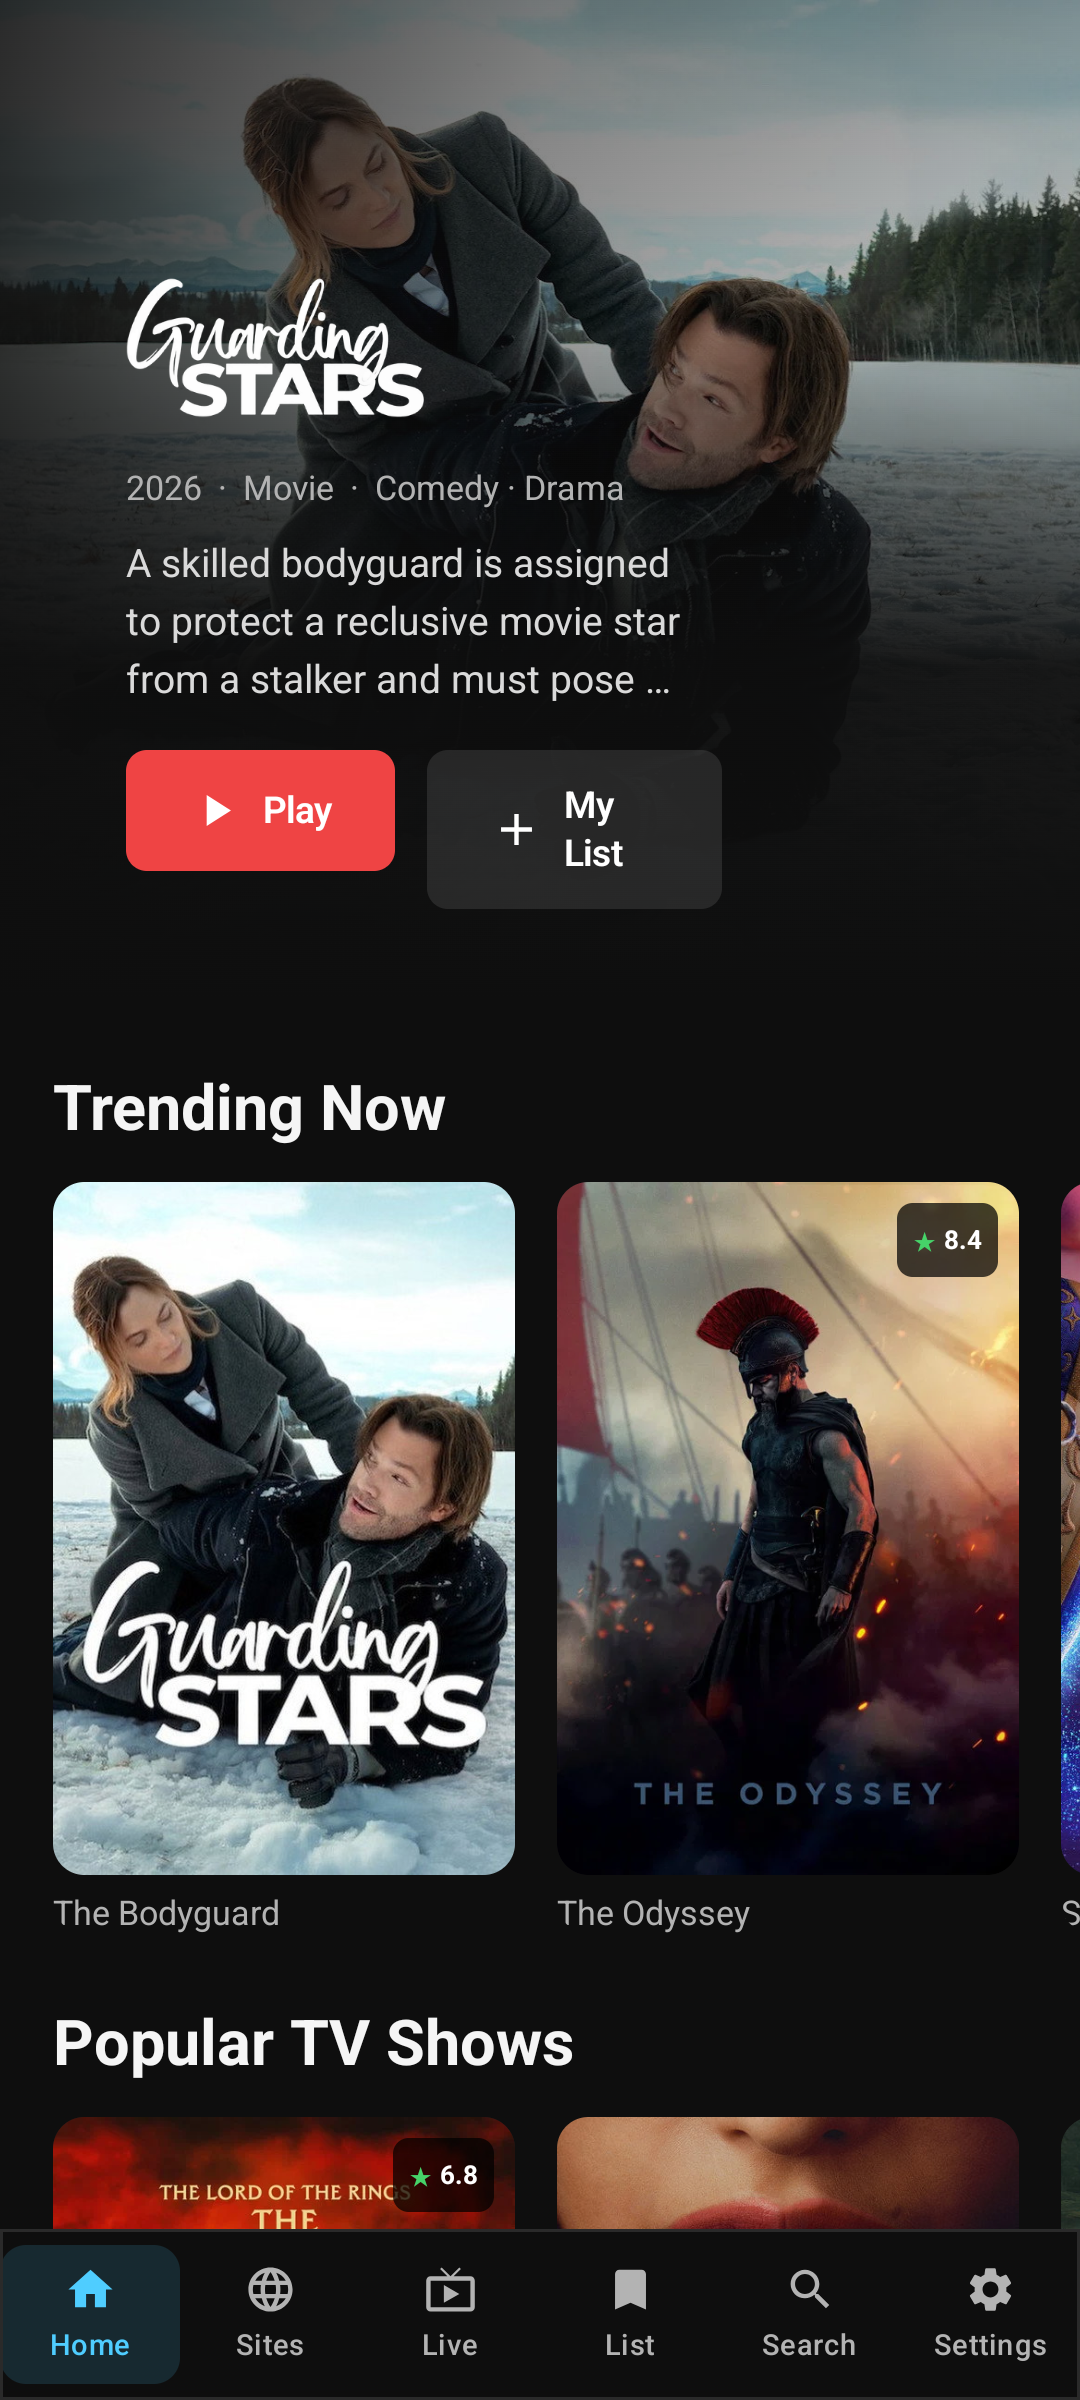
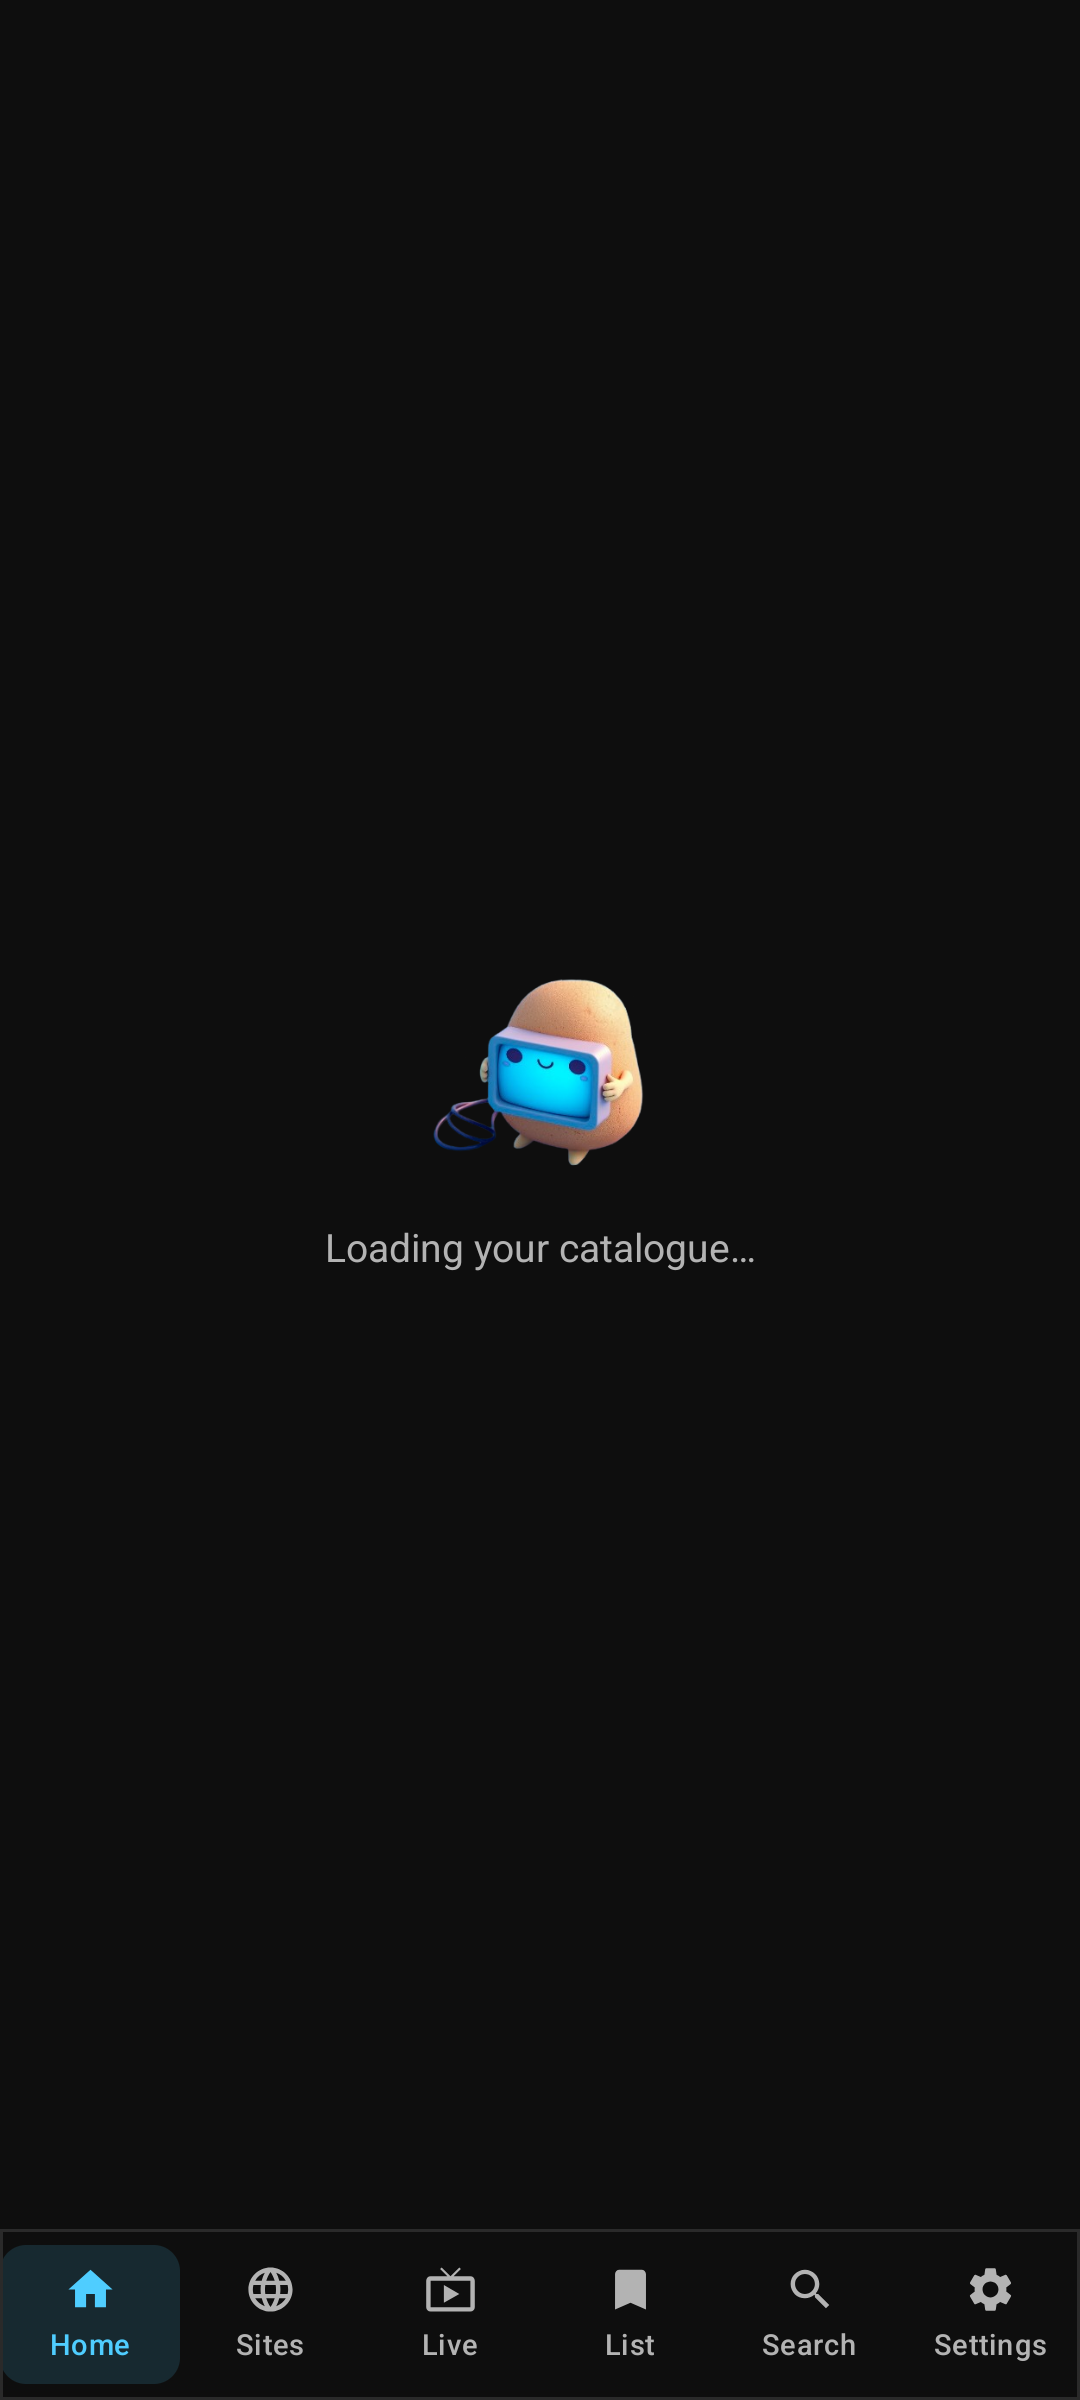
Hide live buffering, stop stream auto-hijack, support fullscreen site video

diff --git a/app/src/main/java/app/potatotv/ui/browser/BrowserScreen.kt b/app/src/main/java/app/potatotv/ui/browser/BrowserScreen.kt
@@ -1,7 +1,11 @@
 package app.potatotv.ui.browser
 
 import android.annotation.SuppressLint
+import android.app.Activity
+import android.content.pm.ActivityInfo
 import android.os.SystemClock
+import android.view.View
+import android.view.ViewGroup
 import android.webkit.CookieManager
 import android.webkit.WebChromeClient
 import android.webkit.WebResourceError
@@ -10,6 +14,7 @@ import android.webkit.WebResourceResponse
 import android.webkit.WebSettings
 import android.webkit.WebView
 import android.webkit.WebViewClient
+import android.widget.FrameLayout
 import android.widget.Toast
 import androidx.activity.compose.BackHandler
 import androidx.compose.foundation.background
@@ -133,6 +138,46 @@ fun BrowserScreen(
 
     val railFocus = remember { FocusRequester() }
     val webView = remember { WebView(context) }
+    val activity = context as? Activity
+
+    // Fullscreen video played inside the site (YouTube-style) needs a custom
+    // view plus permission to rotate; the site's own player then works normally.
+    var fullscreenView by remember { mutableStateOf<View?>(null) }
+    var fullscreenCallback by remember { mutableStateOf<WebChromeClient.CustomViewCallback?>(null) }
+    var previousOrientation by remember {
+        mutableStateOf(activity?.requestedOrientation ?: ActivityInfo.SCREEN_ORIENTATION_UNSPECIFIED)
+    }
+
+    fun showFullscreen(view: View, callback: WebChromeClient.CustomViewCallback?) {
+        if (fullscreenView != null) return
+        previousOrientation = activity?.requestedOrientation
+            ?: ActivityInfo.SCREEN_ORIENTATION_UNSPECIFIED
+        fullscreenView = view
+        fullscreenCallback = callback
+        activity?.requestedOrientation = ActivityInfo.SCREEN_ORIENTATION_SENSOR
+        val decor = activity?.window?.decorView as? FrameLayout
+        decor?.addView(
+            view,
+            FrameLayout.LayoutParams(
+                FrameLayout.LayoutParams.MATCH_PARENT,
+                FrameLayout.LayoutParams.MATCH_PARENT
+            )
+        )
+    }
+
+    fun hideFullscreen() {
+        fullscreenView?.let { view ->
+            (view.parent as? ViewGroup)?.removeView(view)
+        }
+        fullscreenView = null
+        fullscreenCallback?.onCustomViewHidden()
+        fullscreenCallback = null
+        activity?.requestedOrientation = previousOrientation
+    }
+
+    DisposableEffect(Unit) {
+        onDispose { hideFullscreen() }
+    }
     val sniffer = remember {
         context.assets.open("sniffer.js").bufferedReader().use { it.readText() }
     }
@@ -286,6 +331,18 @@ fun BrowserScreen(
                 BrowserSession.setPage(title.orEmpty(), view?.url.orEmpty())
             }
 
+            override fun onShowCustomView(view: View?, callback: WebChromeClient.CustomViewCallback?) {
+                if (view == null) {
+                    callback?.onCustomViewHidden()
+                    return
+                }
+                showFullscreen(view, callback)
+            }
+
+            override fun onHideCustomView() {
+                hideFullscreen()
+            }
+
             override fun onCreateWindow(
                 view: WebView?,
                 isDialog: Boolean,
@@ -356,16 +413,9 @@ fun BrowserScreen(
             BrowserSession.events.collect { event ->
                 when (event) {
                     is BrowserEvent.Stream -> {
+                        // Only surface the stream. The site keeps playing its own
+                        // video; the user can open the native player explicitly.
                         detected = event.stream
-                        val auto = latestSettings.value.autoPlayStreams
-                        val autoKind = event.stream.kind == "hls" || event.stream.kind == "dash"
-                        val now = SystemClock.elapsedRealtime()
-                        val debounce = lastLaunchUrl == event.stream.url && now - lastLaunchAt < 25_000
-                        if (auto && autoKind && !debounce) {
-                            lastLaunchUrl = event.stream.url
-                            lastLaunchAt = now
-                            openPlayer(event.stream)
-                        }
                     }
                     is BrowserEvent.Cursor -> cursorOn = event.on
                 }
@@ -374,7 +424,9 @@ fun BrowserScreen(
     }
 
     BackHandler {
-        if (showMenus) {
+        if (fullscreenView != null) {
+            hideFullscreen()
+        } else if (showMenus) {
             showMenus = false
         } else if (webView.canGoBack()) {
             webView.goBack()

diff --git a/app/src/main/java/app/potatotv/MainActivity.kt b/app/src/main/java/app/potatotv/MainActivity.kt
@@ -1,5 +1,7 @@
 package app.potatotv
 
+import android.app.Activity
+import android.content.pm.ActivityInfo
 import android.os.Bundle
 import androidx.activity.ComponentActivity
 import androidx.activity.compose.setContent
@@ -8,6 +10,7 @@ import androidx.compose.foundation.layout.Box
 import androidx.compose.foundation.layout.Column
 import androidx.compose.foundation.layout.fillMaxSize
 import androidx.compose.runtime.Composable
+import androidx.compose.runtime.DisposableEffect
 import androidx.compose.runtime.getValue
 import androidx.compose.ui.Alignment
 import androidx.compose.ui.Modifier
@@ -60,6 +63,18 @@ fun PotatoApp() {
     val route = entry?.destination?.route
     val hideChrome = route?.startsWith("browser") == true
     val compact = isCompactScreen()
+
+    // Lock ordinary screens to the flavour's orientation, but let the browser
+    // rotate freely so a site's fullscreen video player can go landscape.
+    val activity = androidx.compose.ui.platform.LocalContext.current as? Activity
+    DisposableEffect(route, BuildConfig.FLAVOR) {
+        activity?.requestedOrientation = when {
+            route?.startsWith("browser") == true -> ActivityInfo.SCREEN_ORIENTATION_UNSPECIFIED
+            BuildConfig.FLAVOR == "mobile" -> ActivityInfo.SCREEN_ORIENTATION_PORTRAIT
+            else -> ActivityInfo.SCREEN_ORIENTATION_LANDSCAPE
+        }
+        onDispose { }
+    }
 
     Box(
         Modifier

diff --git a/app/src/main/java/app/potatotv/ui/settings/SettingsScreen.kt b/app/src/main/java/app/potatotv/ui/settings/SettingsScreen.kt
@@ -225,11 +225,11 @@ fun SettingsScreen(@Suppress("UNUSED_PARAMETER") nav: NavController) {
                 title = "Playback & browsing",
                 subtitle = "These apply to the built-in browser and the native player."
             ) {
-                ToggleRow(
-                    title = "Auto-play detected streams",
-                    subtitle = "When the page starts an HLS or DASH stream, open it in the native player immediately.",
-                    checked = settings.autoPlayStreams
-                ) { save("autoPlayStreams", it) }
+                Text(
+                    "Detected streams are shown as a button. The site's own player keeps playing unless you choose to open the stream in PotatoTV's player.",
+                    color = PotatoTextDim,
+                    style = MaterialTheme.typography.bodyMedium
+                )
                 ToggleRow(
                     title = "Ad & popup blocking",
                     subtitle = "Blocks known ad, tracker and popunder hosts before they load.",

diff --git a/app/src/main/java/app/potatotv/ui/player/PlayerActivity.kt b/app/src/main/java/app/potatotv/ui/player/PlayerActivity.kt
@@ -594,7 +594,7 @@ private fun PlayerScreen(
                     }
             )
 
-            if (buffering) {
+            if (buffering && !isLive) {
                 CircularProgressIndicator(
                     color = PotatoAccent,
                     modifier = Modifier
